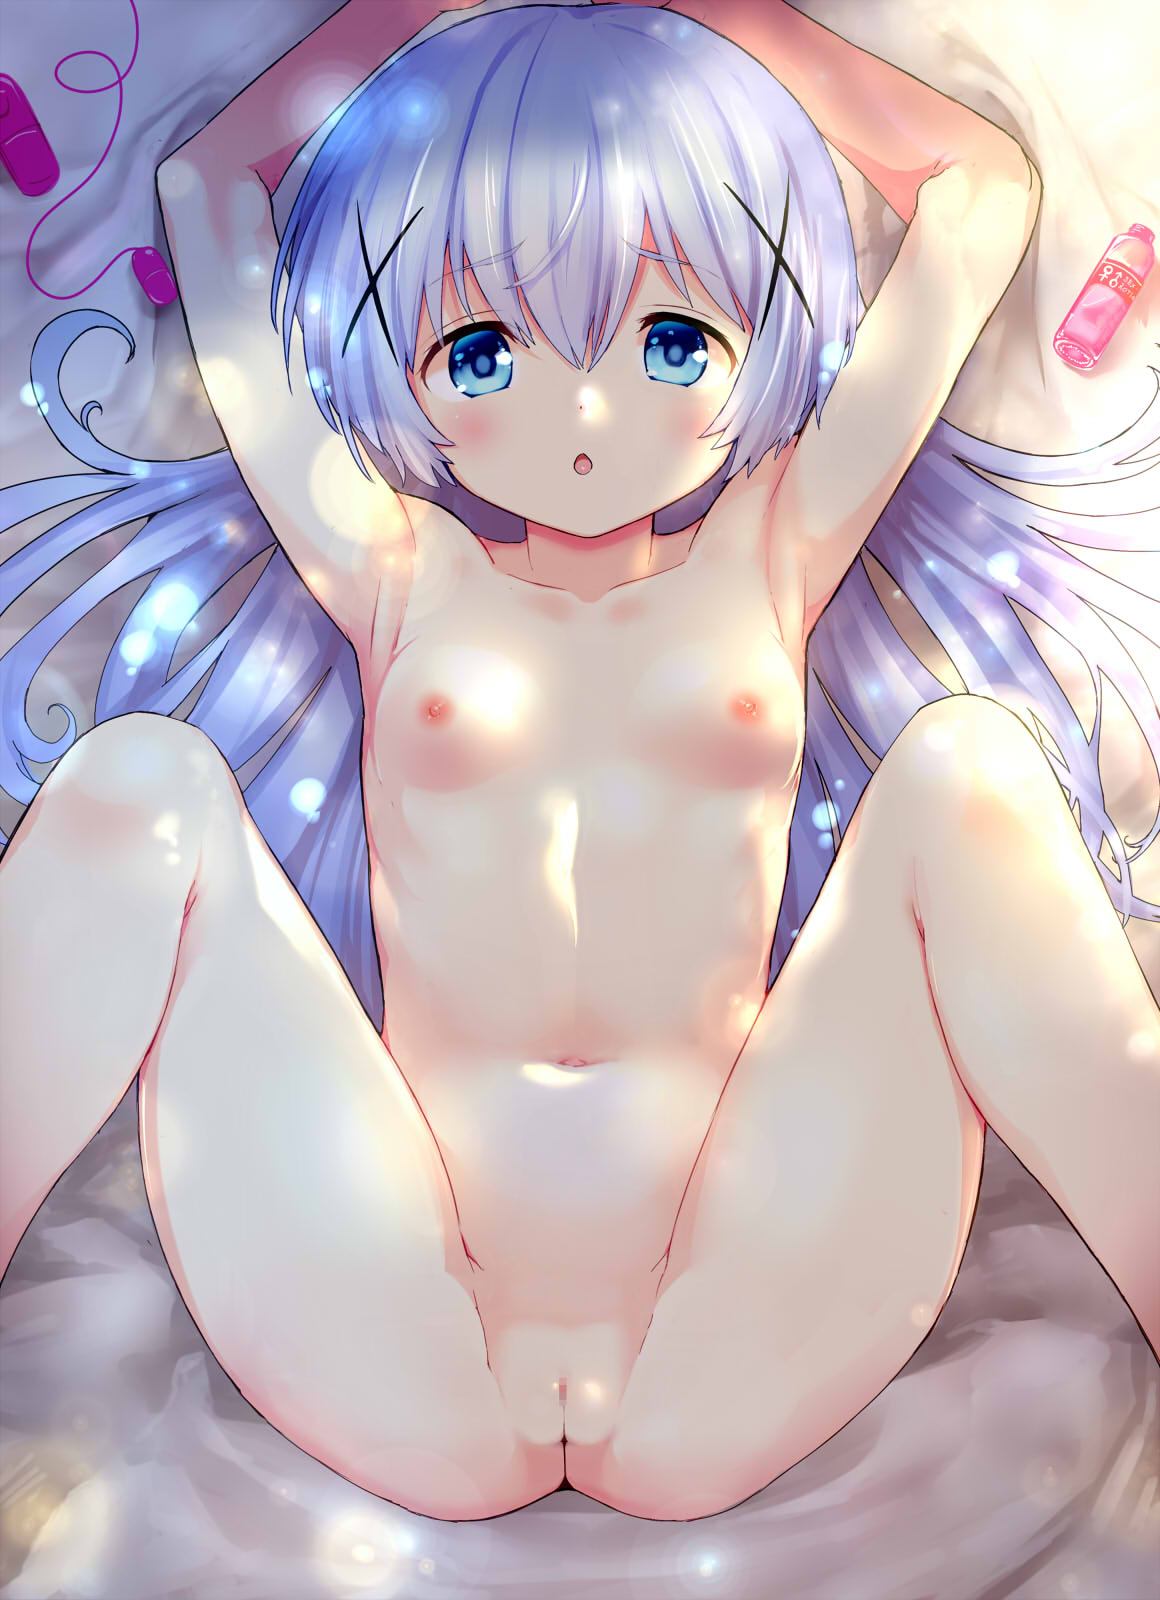
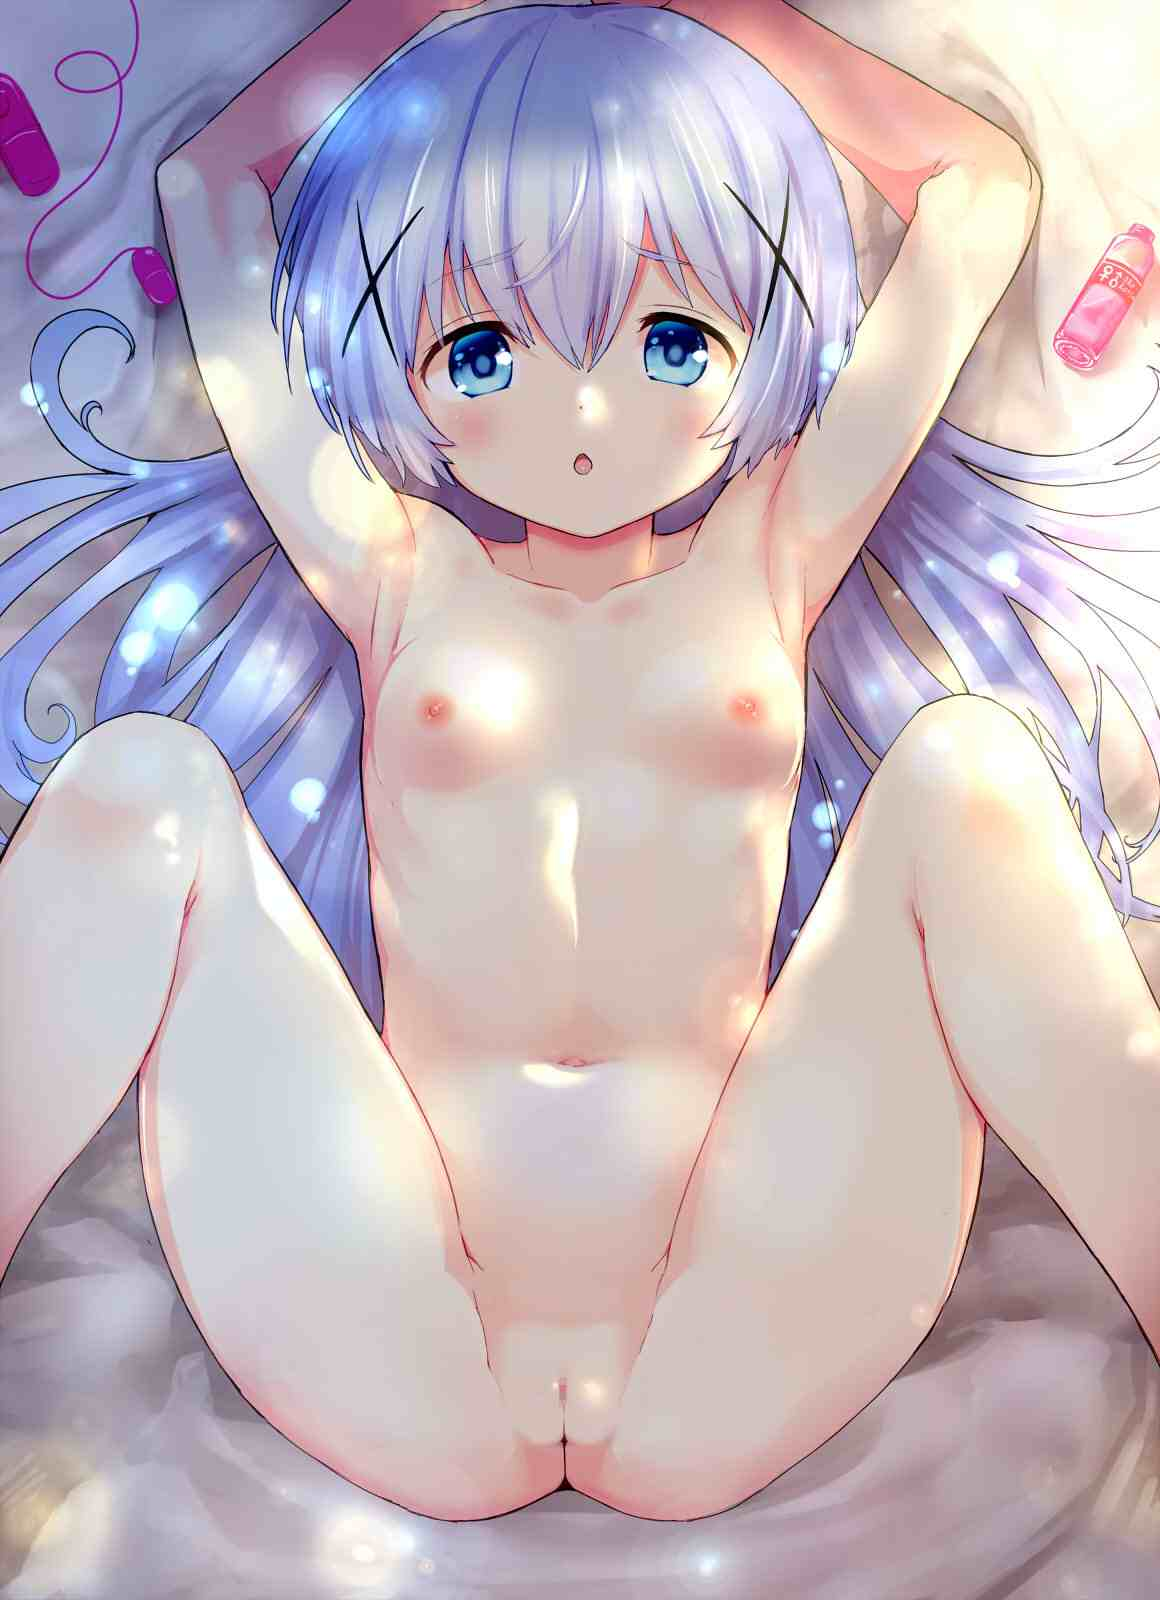
update

diff --git a/helloworld.html b/helloworld.html
@@ -44,6 +44,9 @@ public class HelloWorld {
         <br>
         至于为什么是Java，因为最开始学的就是Java，虽然忘完了，不过残存的记忆还是有的
         <br>
+        为什么图片糊？答，最大限制25mb，没办法，只能压缩，如果你想要原图，可以通过下面的邮箱要哦~，来着不拒
+        <br>
+        <br>
         反馈邮箱 <a href="mailto:execution@qincnd.eu.org">execution@qincnd.eu.org</a>
         <hr class="end-hr">
         <div class="end">power by <a href="index.html">qincnd</a>
